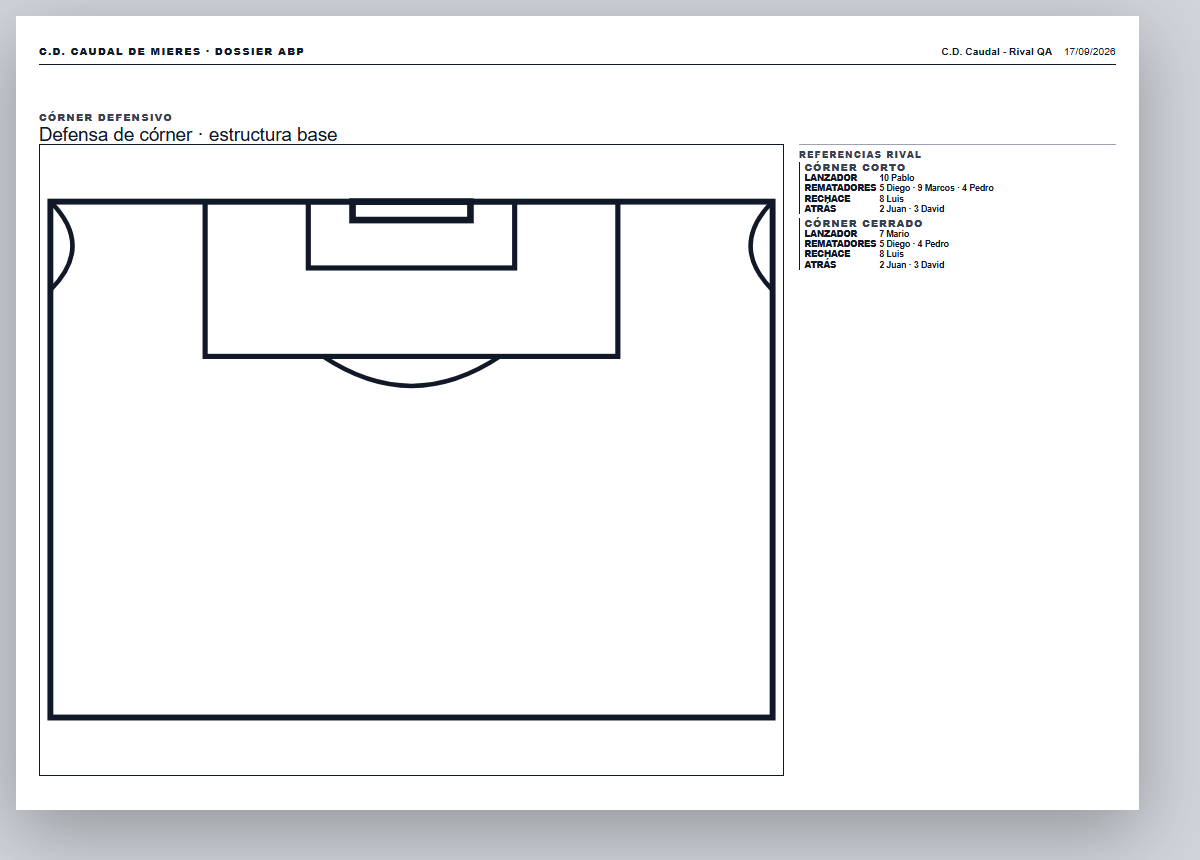
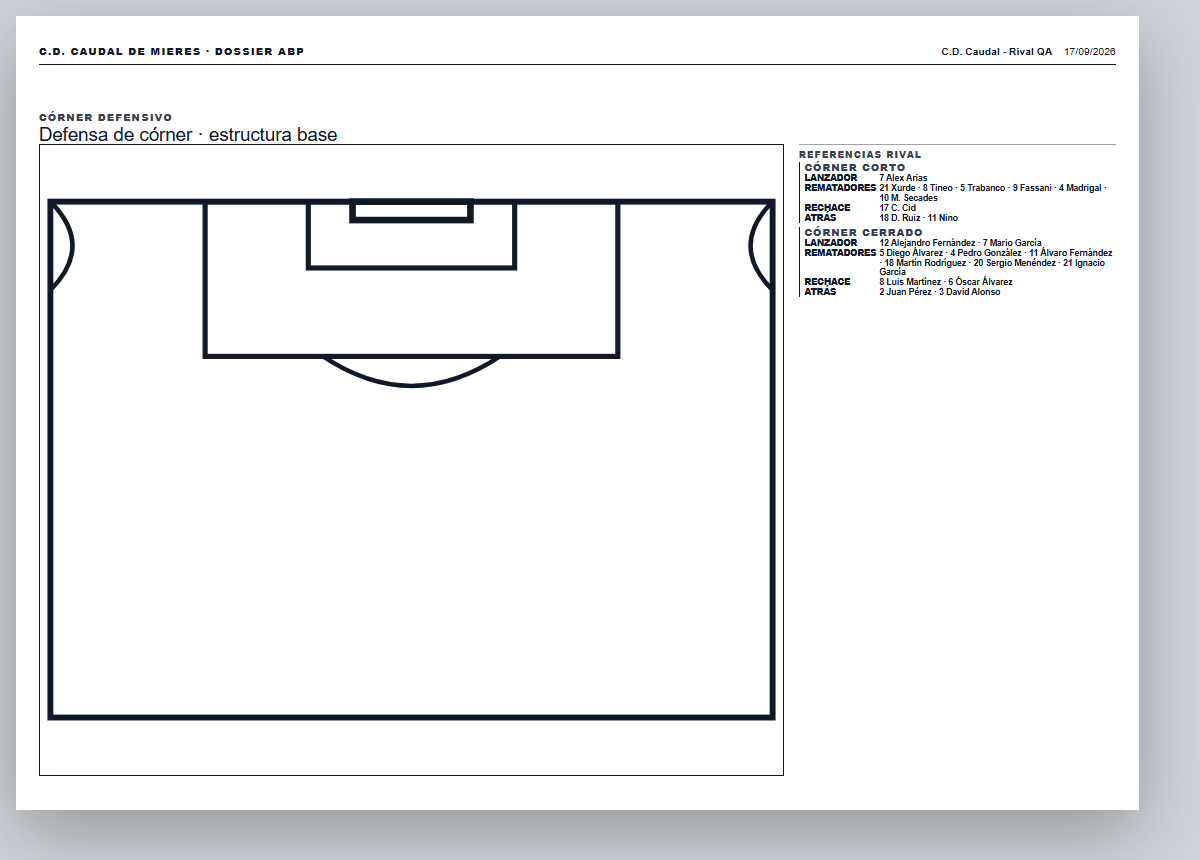
1

Changed region(s): [[0.6475, 0.1814, 0.925, 0.3628]]

diff --git a/src/components/print/SetPieceDiagramPrintSheet.jsx b/src/components/print/SetPieceDiagramPrintSheet.jsx
@@ -21,13 +21,14 @@ function PrintDetail({ label, value, className = '' }) {
 
 function RivalCornerReferences({ plays }) {
   if (!plays.length) return null;
+  const showPlayNames = plays.length > 1;
   return (
     <section className="set-piece-rival-references" aria-label="Referencias rival">
       <h2>Referencias rival</h2>
       <div className="set-piece-rival-reference-plays" data-count={plays.length}>
         {plays.map((play) => (
           <div key={play.id} data-source-play-id={play.id}>
-            <h3>{play.name}</h3>
+            {showPlayNames ? <h3>{play.name}</h3> : null}
             <dl>
               {play.roles.map((role) => (
                 <div key={role.id}>

diff --git a/src/styles/print.css b/src/styles/print.css
@@ -1385,7 +1385,9 @@
   min-width: 0;
   margin: 0;
   font-weight: 700;
-  overflow-wrap: anywhere;
+  overflow-wrap: break-word;
+  white-space: normal;
+  word-break: normal;
 }
 
 .set-piece-pro-plays {
